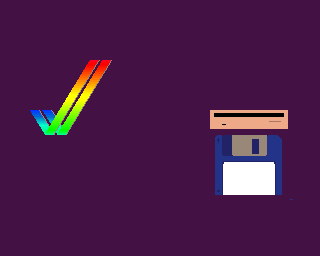
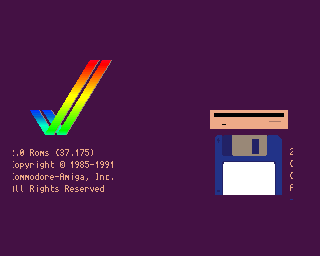
Add ECS BLTCON0L register and fix blitter byte-write merging
KS 2.04 uses the ECS-only BLTCON0L register ($DFF05A) to update just
the minterm (LF) byte of BLTCON0 between blits, leaving the shift and
channel-enable bits untouched. Without this register, the minterm write
was silently dropped, causing the STRAP display routine's cookie-cut
copy (new bitmap → old bitmap) to use a stale minterm. Old plane 0
never received the checkmark data, so text erase blits cleared zeros
to zeros, and the final old→new copy destroyed the display bitmap's
text area. Result: no text on the boot screen.

Two changes:

1. Handle BLTCON0L ($05A) in write_custom_register for ECS chipset.
   Merges only the low byte into bltcon0, preserving the upper byte.

2. Add BLTCON0 ($040) and BLTCON1 ($042) to the byte-merge latch so
   that CPU byte-writes to these registers preserve the untouched byte
   instead of zeroing it.

Boot screen now shows "2.0 Roms (37.175) / Copyright / Commodore-Amiga,
Inc. / All Rights Reserved" text under the checkmark. KS 1.3 unaffected.

Entire-Checkpoint: 2cf7335e2fb1

Changed region(s): [[0.0312, 0.5625, 0.375, 0.75], [0.9062, 0.7188, 0.9375, 0.75], [0.9062, 0.625, 0.9375, 0.6562]]

diff --git a/crates/machine-amiga/tests/boot_kickstart.rs b/crates/machine-amiga/tests/boot_kickstart.rs
@@ -3701,6 +3701,12 @@ fn test_boot_kick204_a500plus_screenshot() {
     let mut prev_blitter_busy = false;
     let mut text_string_accessed = false;
     let mut prev_cop2lc = 0u32;
+    // Track old bitmap text area content at key checkpoints.
+    // Old plane 0 text line 102 starts at $012DE6. Check 7 words there.
+    let mut text_area_snapshot_done = false;
+    let old_plane0_text = 0x012DE6usize;
+    let old_plane1_text = 0x0158D4usize; // #72 dpt
+    let old_plane2_text = 0x01807Ausize; // #73 dpt
 
     for i in 0..total_ticks {
         amiga.tick();
@@ -3733,6 +3739,48 @@ fn test_boot_kick204_a500plus_screenshot() {
             prev_cop2lc = cop2lc;
         }
 
+        // Snapshot old bitmap text area BEFORE first text erase blit
+        if !text_area_snapshot_done && i >= 107_100_000 && i <= 107_200_000 && i % 8 == 0 {
+            // Check once just before first text blit (~tick 107.1M)
+            text_area_snapshot_done = true;
+            let chip = &amiga.memory.chip_ram;
+            let chip_len = chip.len();
+            eprintln!("\n=== OLD BITMAP TEXT AREA SNAPSHOT (before text blits, tick {}) ===", i);
+            for (label, base) in [("Plane0", old_plane0_text), ("Plane1", old_plane1_text), ("Plane2", old_plane2_text)] {
+                let mut data = Vec::new();
+                for row in 0..9usize {
+                    let line_addr = base + row * 70; // BytesPerRow=70
+                    for w in 0..7usize {
+                        let a = line_addr + w * 2;
+                        if a + 1 < chip_len {
+                            let word = ((chip[a] as u16) << 8) | chip[a + 1] as u16;
+                            data.push(word);
+                        }
+                    }
+                }
+                let non_zero = data.iter().filter(|&&w| w != 0).count();
+                let sample: Vec<_> = data.iter().take(14).map(|w| format!("{:04X}", w)).collect();
+                eprintln!("  {} @${:06X}: {}/{} non-zero, first 14: [{}]",
+                    label, base, non_zero, data.len(), sample.join(" "));
+            }
+            // Also check the NEW bitmap plane 0 at the corresponding text offset
+            // Text line 102 in new bitmap: $0188F4 + 102*70 = $0188F4 + $1BEC = $01A4E0
+            let new_plane0_text = 0x01A4E0usize;
+            let mut data = Vec::new();
+            for row in 0..9usize {
+                let line_addr = new_plane0_text + row * 70;
+                for w in 0..7usize {
+                    let a = line_addr + w * 2;
+                    if a + 1 < chip_len {
+                        let word = ((amiga.memory.chip_ram[a] as u16) << 8) | amiga.memory.chip_ram[a + 1] as u16;
+                        data.push(word);
+                    }
+                }
+            }
+            let non_zero = data.iter().filter(|&&w| w != 0).count();
+            eprintln!("  NewP0 @${:06X}: {}/{} non-zero", new_plane0_text, non_zero, data.len());
+        }
+
         // Count blitter operations
         let busy = amiga.agnus.blitter_busy;
         if busy && !prev_blitter_busy {
@@ -3741,16 +3789,45 @@ fn test_boot_kick204_a500plus_screenshot() {
                 blit_line_count += 1;
             } else {
                 blit_area_count += 1;
-                // Log area blits targeting the bitplane area
                 let dpt = amiga.agnus.blt_dpt;
                 let height = (amiga.agnus.bltsize >> 6) & 0x3FF;
                 let width = amiga.agnus.bltsize & 0x3F;
-                if dpt >= 0x018000 && dpt < 0x020000 && blit_area_count <= 100 {
+                // Detailed logging for ALL blits in the text-rendering window
+                if i >= 106_000_000 && i <= 114_000_000 {
+                    eprintln!(
+                        "[tick {}] BLIT #{}: con0=${:04X} con1=${:04X} size={}x{} apt=${:06X} bpt=${:06X} cpt=${:06X} dpt=${:06X} amod={} bmod={} cmod={} dmod={} afwm=${:04X} alwm=${:04X} adat=${:04X} bdat=${:04X} cdat=${:04X}",
+                        i, blit_area_count,
+                        amiga.agnus.bltcon0, amiga.agnus.bltcon1,
+                        width, height,
+                        amiga.agnus.blt_apt, amiga.agnus.blt_bpt,
+                        amiga.agnus.blt_cpt, amiga.agnus.blt_dpt,
+                        amiga.agnus.blt_amod, amiga.agnus.blt_bmod,
+                        amiga.agnus.blt_cmod, amiga.agnus.blt_dmod,
+                        amiga.agnus.blt_afwm, amiga.agnus.blt_alwm,
+                        amiga.agnus.blt_adat, amiga.agnus.blt_bdat,
+                        amiga.agnus.blt_cdat,
+                    );
+                } else if dpt >= 0x018000 && dpt < 0x020000 && blit_area_count <= 100 {
                     eprintln!(
                         "[tick {}] BLIT AREA #{}: dpt=${:06X} size={}x{} con0=${:04X} con1=${:04X}",
                         i, blit_area_count, dpt, width, height,
                         amiga.agnus.bltcon0, amiga.agnus.bltcon1
                     );
+                }
+                // Log any blit targeting the old bitmap text area (planes 0/1/2 near line 102)
+                // Old P0 text: $012DE6, P1: $0158D4, P2: $01807A ± some rows
+                if (dpt >= 0x012C00 && dpt < 0x013800)
+                    || (dpt >= 0x0153A0 && dpt < 0x015F00)
+                    || (dpt >= 0x017B00 && dpt < 0x018900)
+                {
+                    let lf = amiga.agnus.bltcon0 & 0xFF;
+                    if lf != 0x0A {
+                        eprintln!(
+                            "[tick {}] BLIT TO OLD TEXT AREA #{}: dpt=${:06X} size={}x{} con0=${:04X} LF=${:02X}",
+                            i, blit_area_count, dpt, width, height,
+                            amiga.agnus.bltcon0, lf
+                        );
+                    }
                 }
             }
         }

diff --git a/crates/machine-amiga/src/lib.rs b/crates/machine-amiga/src/lib.rs
@@ -2268,6 +2268,9 @@ fn custom_register_byte_merge_latch(
     offset: u16,
 ) -> Option<u16> {
     match offset {
+        // Blitter control registers — KS 2.04+ may byte-write these.
+        0x040 => Some(agnus.bltcon0),
+        0x042 => Some(agnus.bltcon1),
         // Display / DMA-visible latches commonly byte-written by ROMs/copper.
         0x08E => Some(agnus.diwstrt),
         0x090 => Some(agnus.diwstop),
@@ -2368,6 +2371,11 @@ fn write_custom_register(
         0x058 => {
             agnus.bltsize = val;
             agnus.start_blit();
+        }
+        0x05A if chipset == AmigaChipset::Ecs => {
+            // BLTCON0L (ECS): write only the low byte (minterm/LF) of BLTCON0,
+            // preserving the upper byte (ASH + channel enables).
+            agnus.bltcon0 = (agnus.bltcon0 & 0xFF00) | (val & 0x00FF);
         }
         0x05C if chipset == AmigaChipset::Ecs => {
             agnus.bltsizv_ecs = val;
